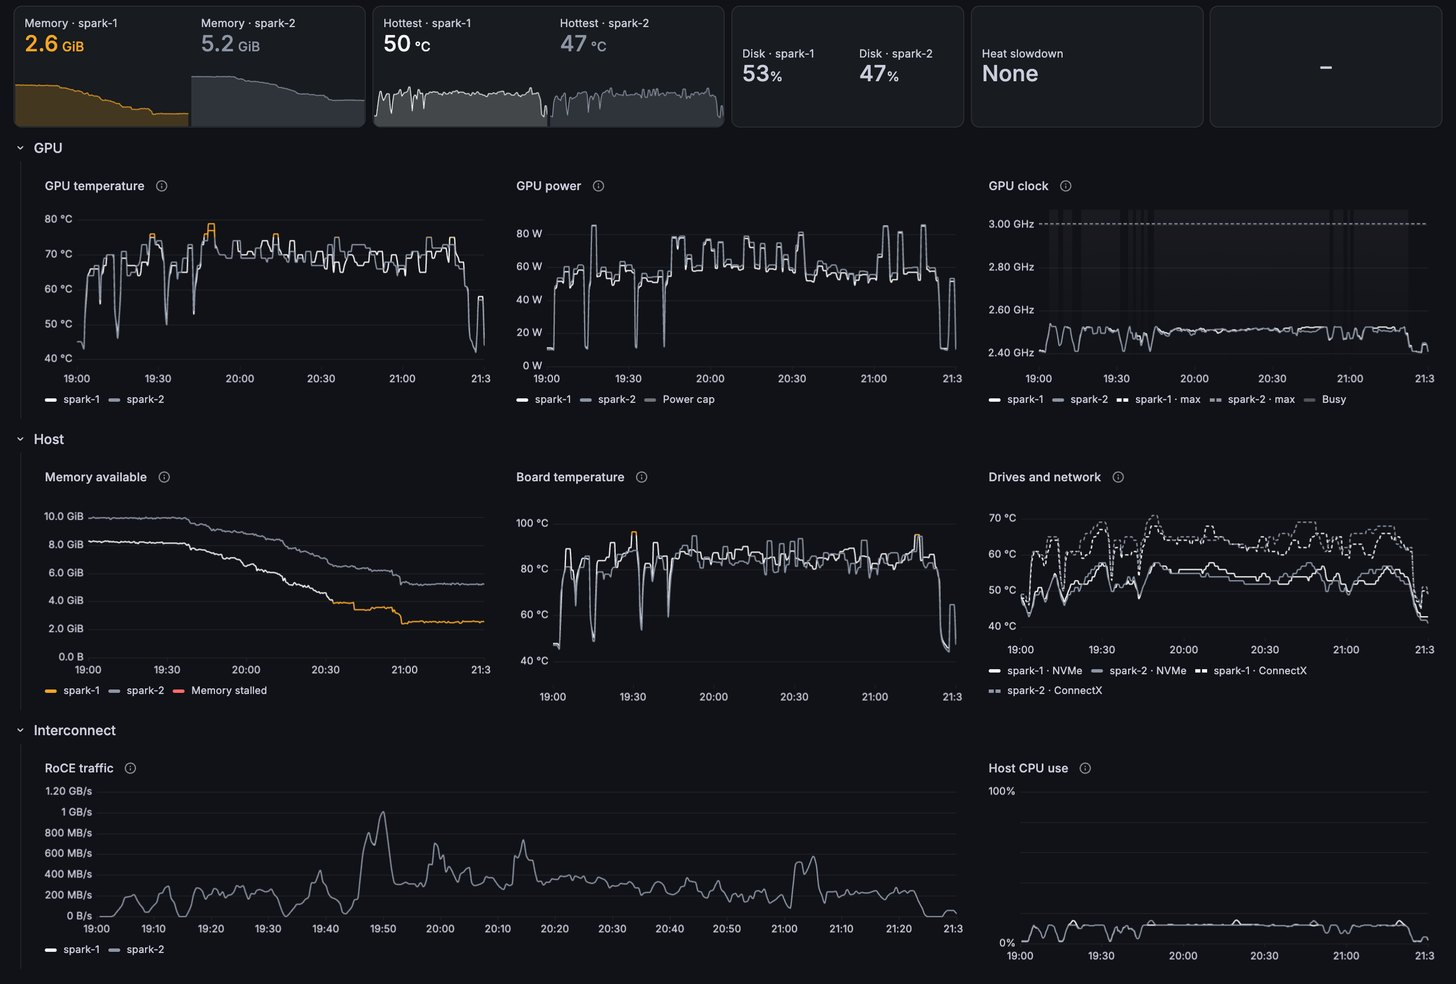
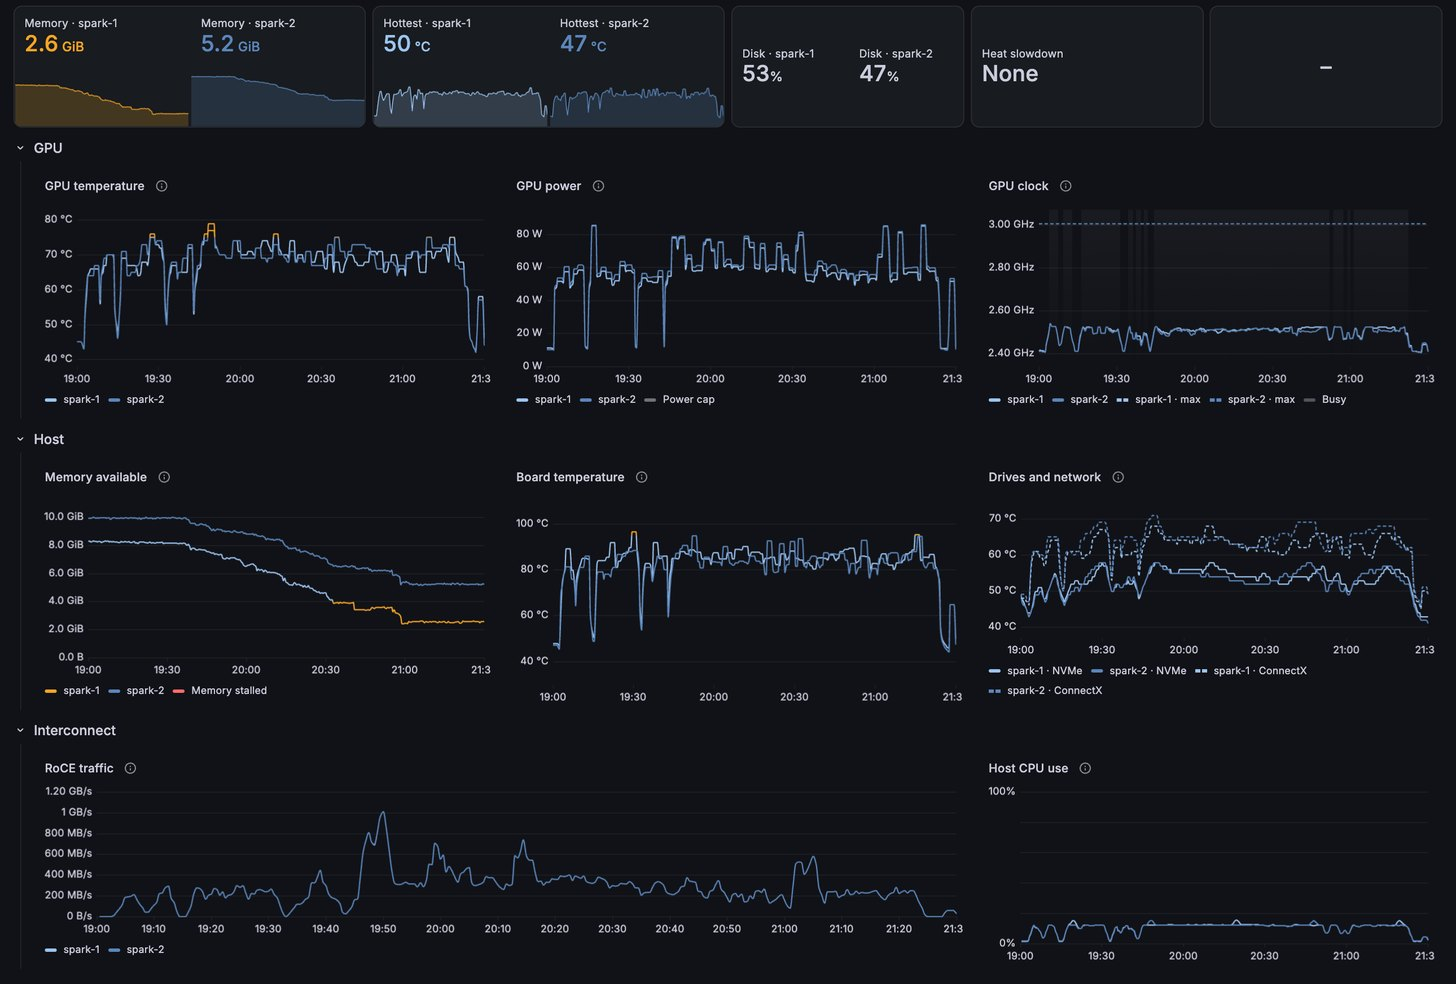
fix(grafana): draw plain quantities in information blue
White is the brightest thing on the page, which put the most emphasis
on the data with the least to say. Blue carries its usual meaning here
and leaves amber and red as the loudest colours.

diff --git a/scripts/grafana/concepts/build.py b/scripts/grafana/concepts/build.py
@@ -15,10 +15,10 @@ HERE = Path(__file__).resolve().parent
 LAB = Path("/tmp/spark-lab/dash")
 WINDOW = ("2026-10-31T23:00:00.000Z", "2026-11-01T01:30:00.000Z")
 
-NEUTRAL = "#F4F4F5"
-RULE = {"ok": "#3ECF8E", "drawn": True, "speed": NEUTRAL, "load": NEUTRAL, "cache": NEUTRAL, "memory": NEUTRAL, "heat": NEUTRAL, "context": NEUTRAL, "fine": "#8B95A5",
+INFO = "#6CA6E0"      # a plain quantity: information, with no good or bad in it
+RULE = {"ok": "#3ECF8E", "drawn": True, "speed": INFO, "load": INFO, "cache": INFO, "memory": INFO, "heat": INFO, "context": INFO, "fine": "#5F7690",
         "muted": "#52525B", "warn": "#F5A524", "bad": "#FF6B6B", "info": "#71717A", "band": 14, "quiet": "#1C1F24", "good": "#17402F", "warm": "#4A3A12", "hot": "#4F2020",
-        "heatmap": {"mode": "opacity", "fill": NEUTRAL, "scale": "exponential", "exponent": 0.5}, "line": 1.5, "fill": 8, "gradient": "opacity", "transparent": True}
+        "heatmap": {"mode": "opacity", "fill": INFO, "scale": "exponential", "exponent": 0.5}, "line": 1.5, "fill": 8, "gradient": "opacity", "transparent": True}
 GIB = 1 << 30
 
 # Roles: spark1/spark2 are the machines. speed, load, cache, memory, heat and context are what a tile or single-series chart measures. fine is a second series beside
@@ -61,9 +61,9 @@ CONCEPTS = {
         "line": 2, "fill": 8, "gradient": "opacity", "transparent": True,
     },
     # Round two: each concept is one rule for what colour means. Bars draw activity, thin lines draw levels, and nothing is filled behind two machines.
-    # Quantities have no good or bad, so they stay neutral. A judged value has a limit, from the alert rules and runbooks, and its line changes colour as it crosses one.
-    "colour-judges": dict(RULE, title="Colour judges", calm="#F4F4F5", calm1="#F4F4F5", calm2="#8B95A5", spark1="#F4F4F5", spark2="#8B95A5"),
-    "traffic-light": dict(RULE, title="Traffic light", calm="#3ECF8E", calm1="#3ECF8E", calm2="#A7F3D0", spark1="#F4F4F5", spark2="#8B95A5"),
+    # Quantities have no good or bad, so they take the information blue. A judged value has a limit, some from the alert rules and some still placeholders, and its line changes colour as it crosses one.
+    "colour-judges": dict(RULE, title="Colour judges", calm=INFO, calm1="#9CC4F0", calm2="#5B86BC", spark1="#9CC4F0", spark2="#5B86BC"),
+    "traffic-light": dict(RULE, title="Traffic light", calm="#3ECF8E", calm1="#3ECF8E", calm2="#A7F3D0", spark1="#9CC4F0", spark2="#5B86BC"),
     "machines": dict(RULE, title="Machines and condition", calm="#3ECF8E", calm1="#2DD4BF", calm2="#A78BFA", spark1="#2DD4BF", spark2="#A78BFA"),
 }
 
@@ -217,7 +217,7 @@ def drawn(p, c, health):
     if health and p["id"] in TWO_MACHINES:
         custom["fillOpacity"] = 0
     if not health and p["id"] in BARS:
-        custom.update(drawStyle="bars", barAlignment=0, barWidthFactor=0.8, lineWidth=0, fillOpacity=45, gradientMode="none")
+        custom.update(drawStyle="bars", barAlignment=0, barWidthFactor=0.8, lineWidth=0, fillOpacity=30, gradientMode="none")
         fc["defaults"]["color"] = fixed(c["speed"] if p["id"] == 23 else c["load"])
     if not health and p["id"] == 7:
         for o in fc["overrides"]:
